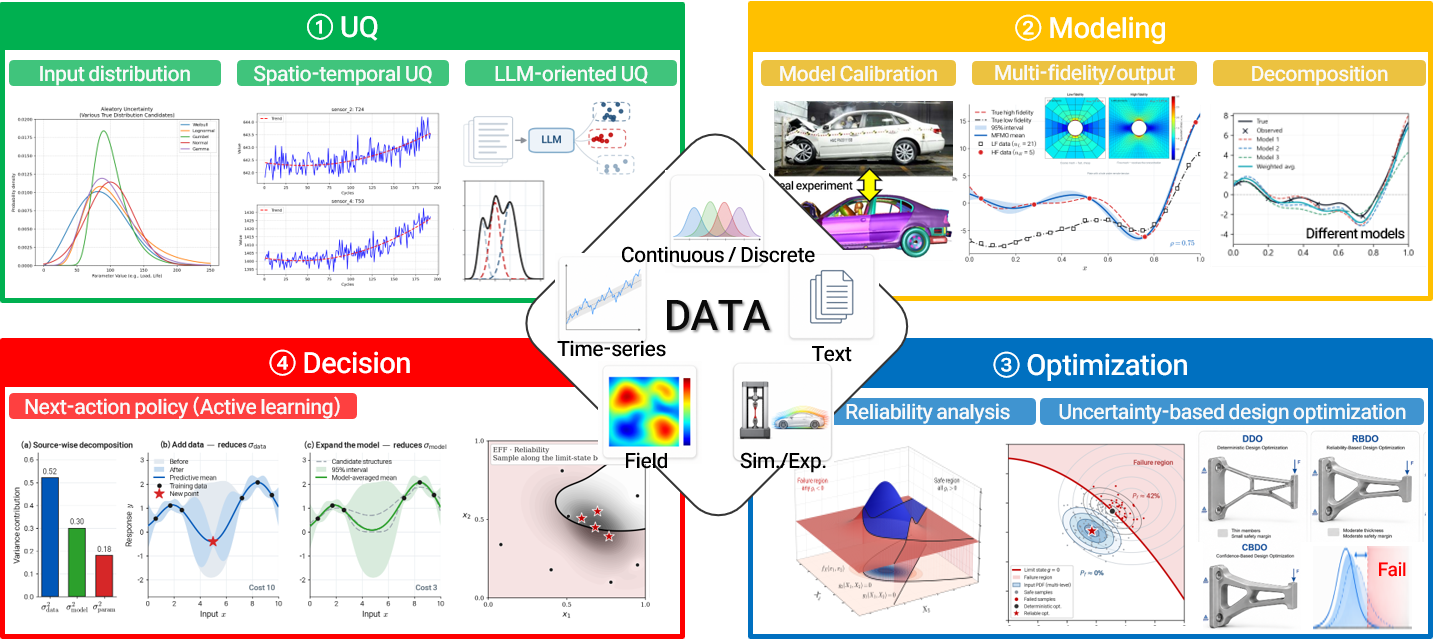
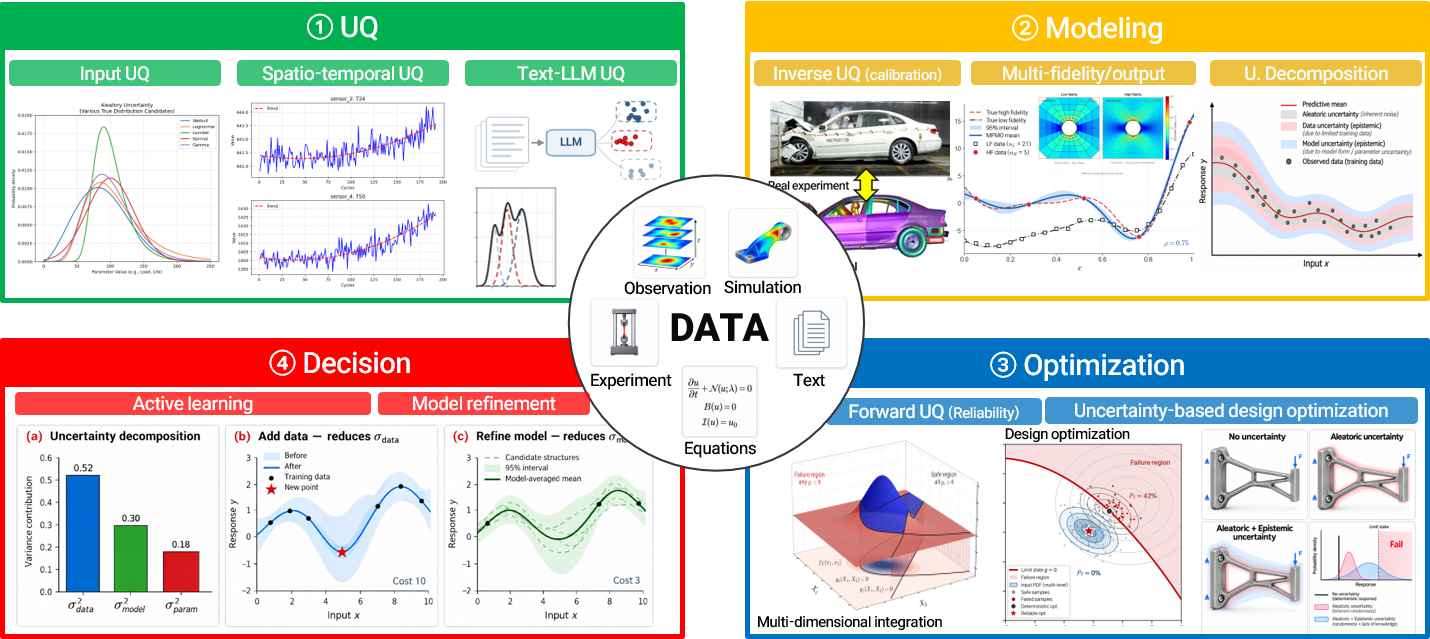
Update data-driven research framework diagram

diff --git a/app/page.tsx b/app/page.tsx
@@ -499,16 +499,16 @@ export default function Home() {
           <figure className="research-figure research-framework-figure">
             <h3 className="research-figure-title">Data-driven research framework</h3>
             <a
-              href="/research-framework.png"
+              href="/research-framework.png?v=20260929"
               target="_blank"
               rel="noreferrer"
               aria-label="Open the research framework diagram at full size"
               title="Open full-size research framework"
             >
               <img
-                src="/research-framework.png"
+                src="/research-framework.png?v=20260929"
                 alt="Data-driven research framework connecting uncertainty quantification, modeling, optimization, and decision-making with engineering applications"
-                width="1433"
+                width="1430"
                 height="639"
                 loading="lazy"
                 decoding="async"
